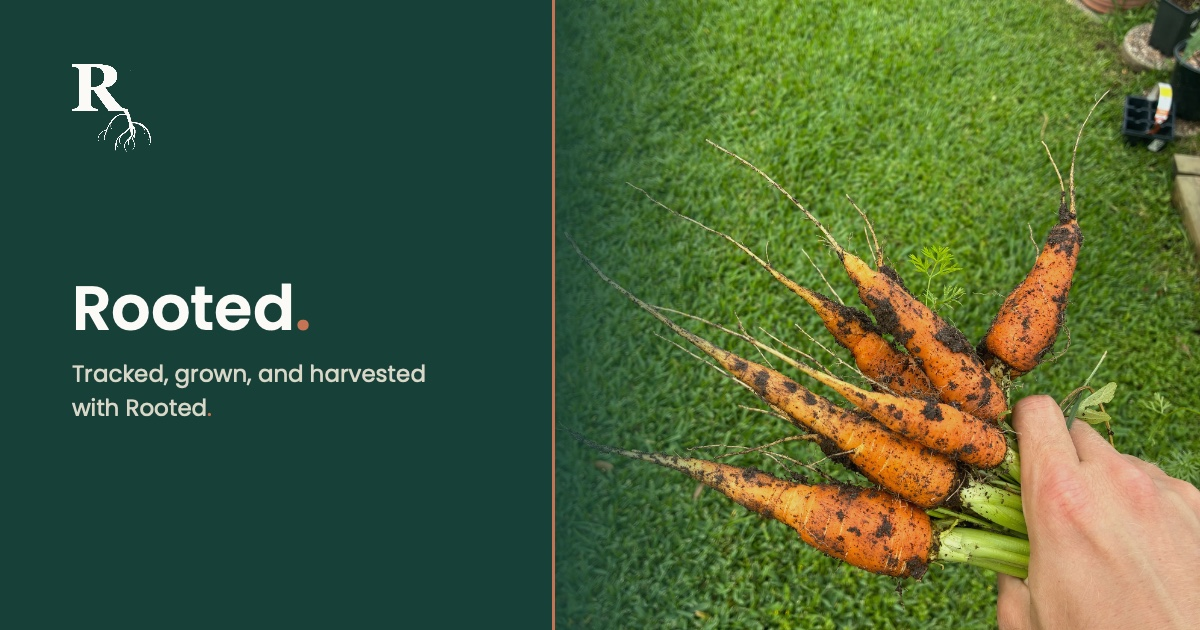
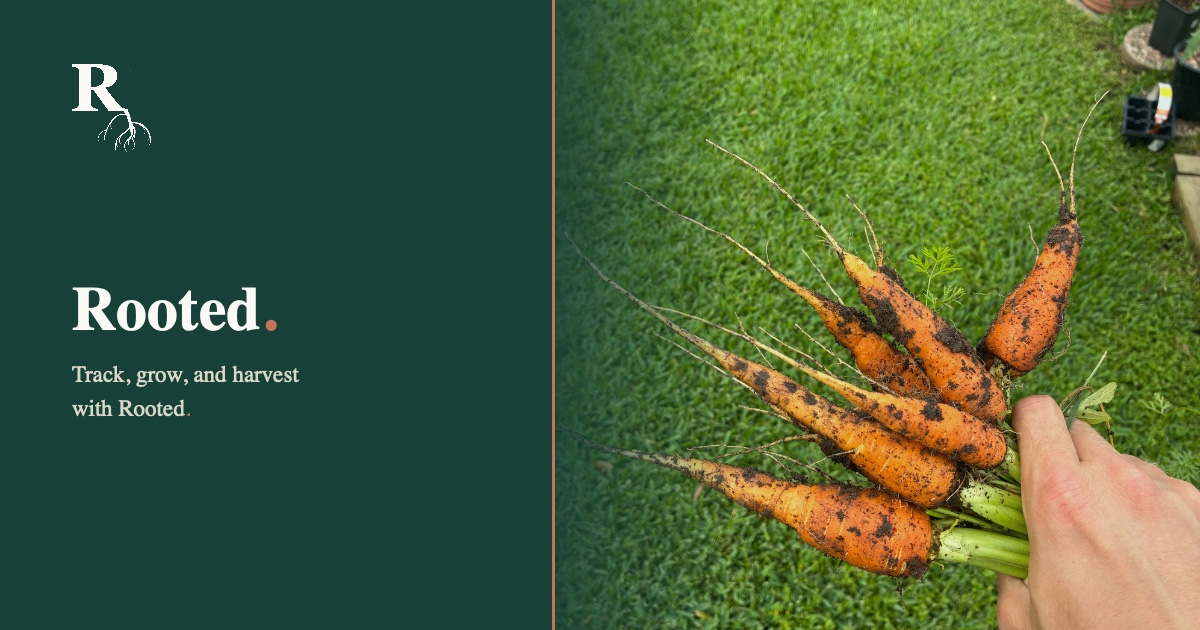
Update social card and garden caption to present-tense copy

Changed region(s): [[0.0617, 0.4524, 0.2775, 0.5429], [0.0617, 0.573, 0.37, 0.6635]]

diff --git a/index.html b/index.html
@@ -125,7 +125,7 @@
     <h2>For people who <span class="terra">grow their own.</span></h2>
     <p class="garden-lede">Rooted is made for the gardeners actually out there — hands in the dirt, watching it come up, bringing it in.</p>
     <div class="garden-photos"><img src="assets/garden/lush-bed.jpg" alt="Lush garden bed" /><img src="assets/garden/blackberry-haul.jpg" alt="Blackberry harvest" /><img src="assets/garden/ripe-fig-tree.jpg" alt="Ripe figs" /><img src="assets/garden/harvest.jpg" alt="Fresh harvest" /></div>
-    <p class="garden-caption">Tracked, grown, and harvested with Rooted<span class="terra">.</span></p>
+    <p class="garden-caption">Track, grow, and harvest with Rooted<span class="terra">.</span></p>
   </div></section>
   <section class="cta"><div class="wrap">
     <span class="kicker" style="justify-content:center;">It's growing season</span>
